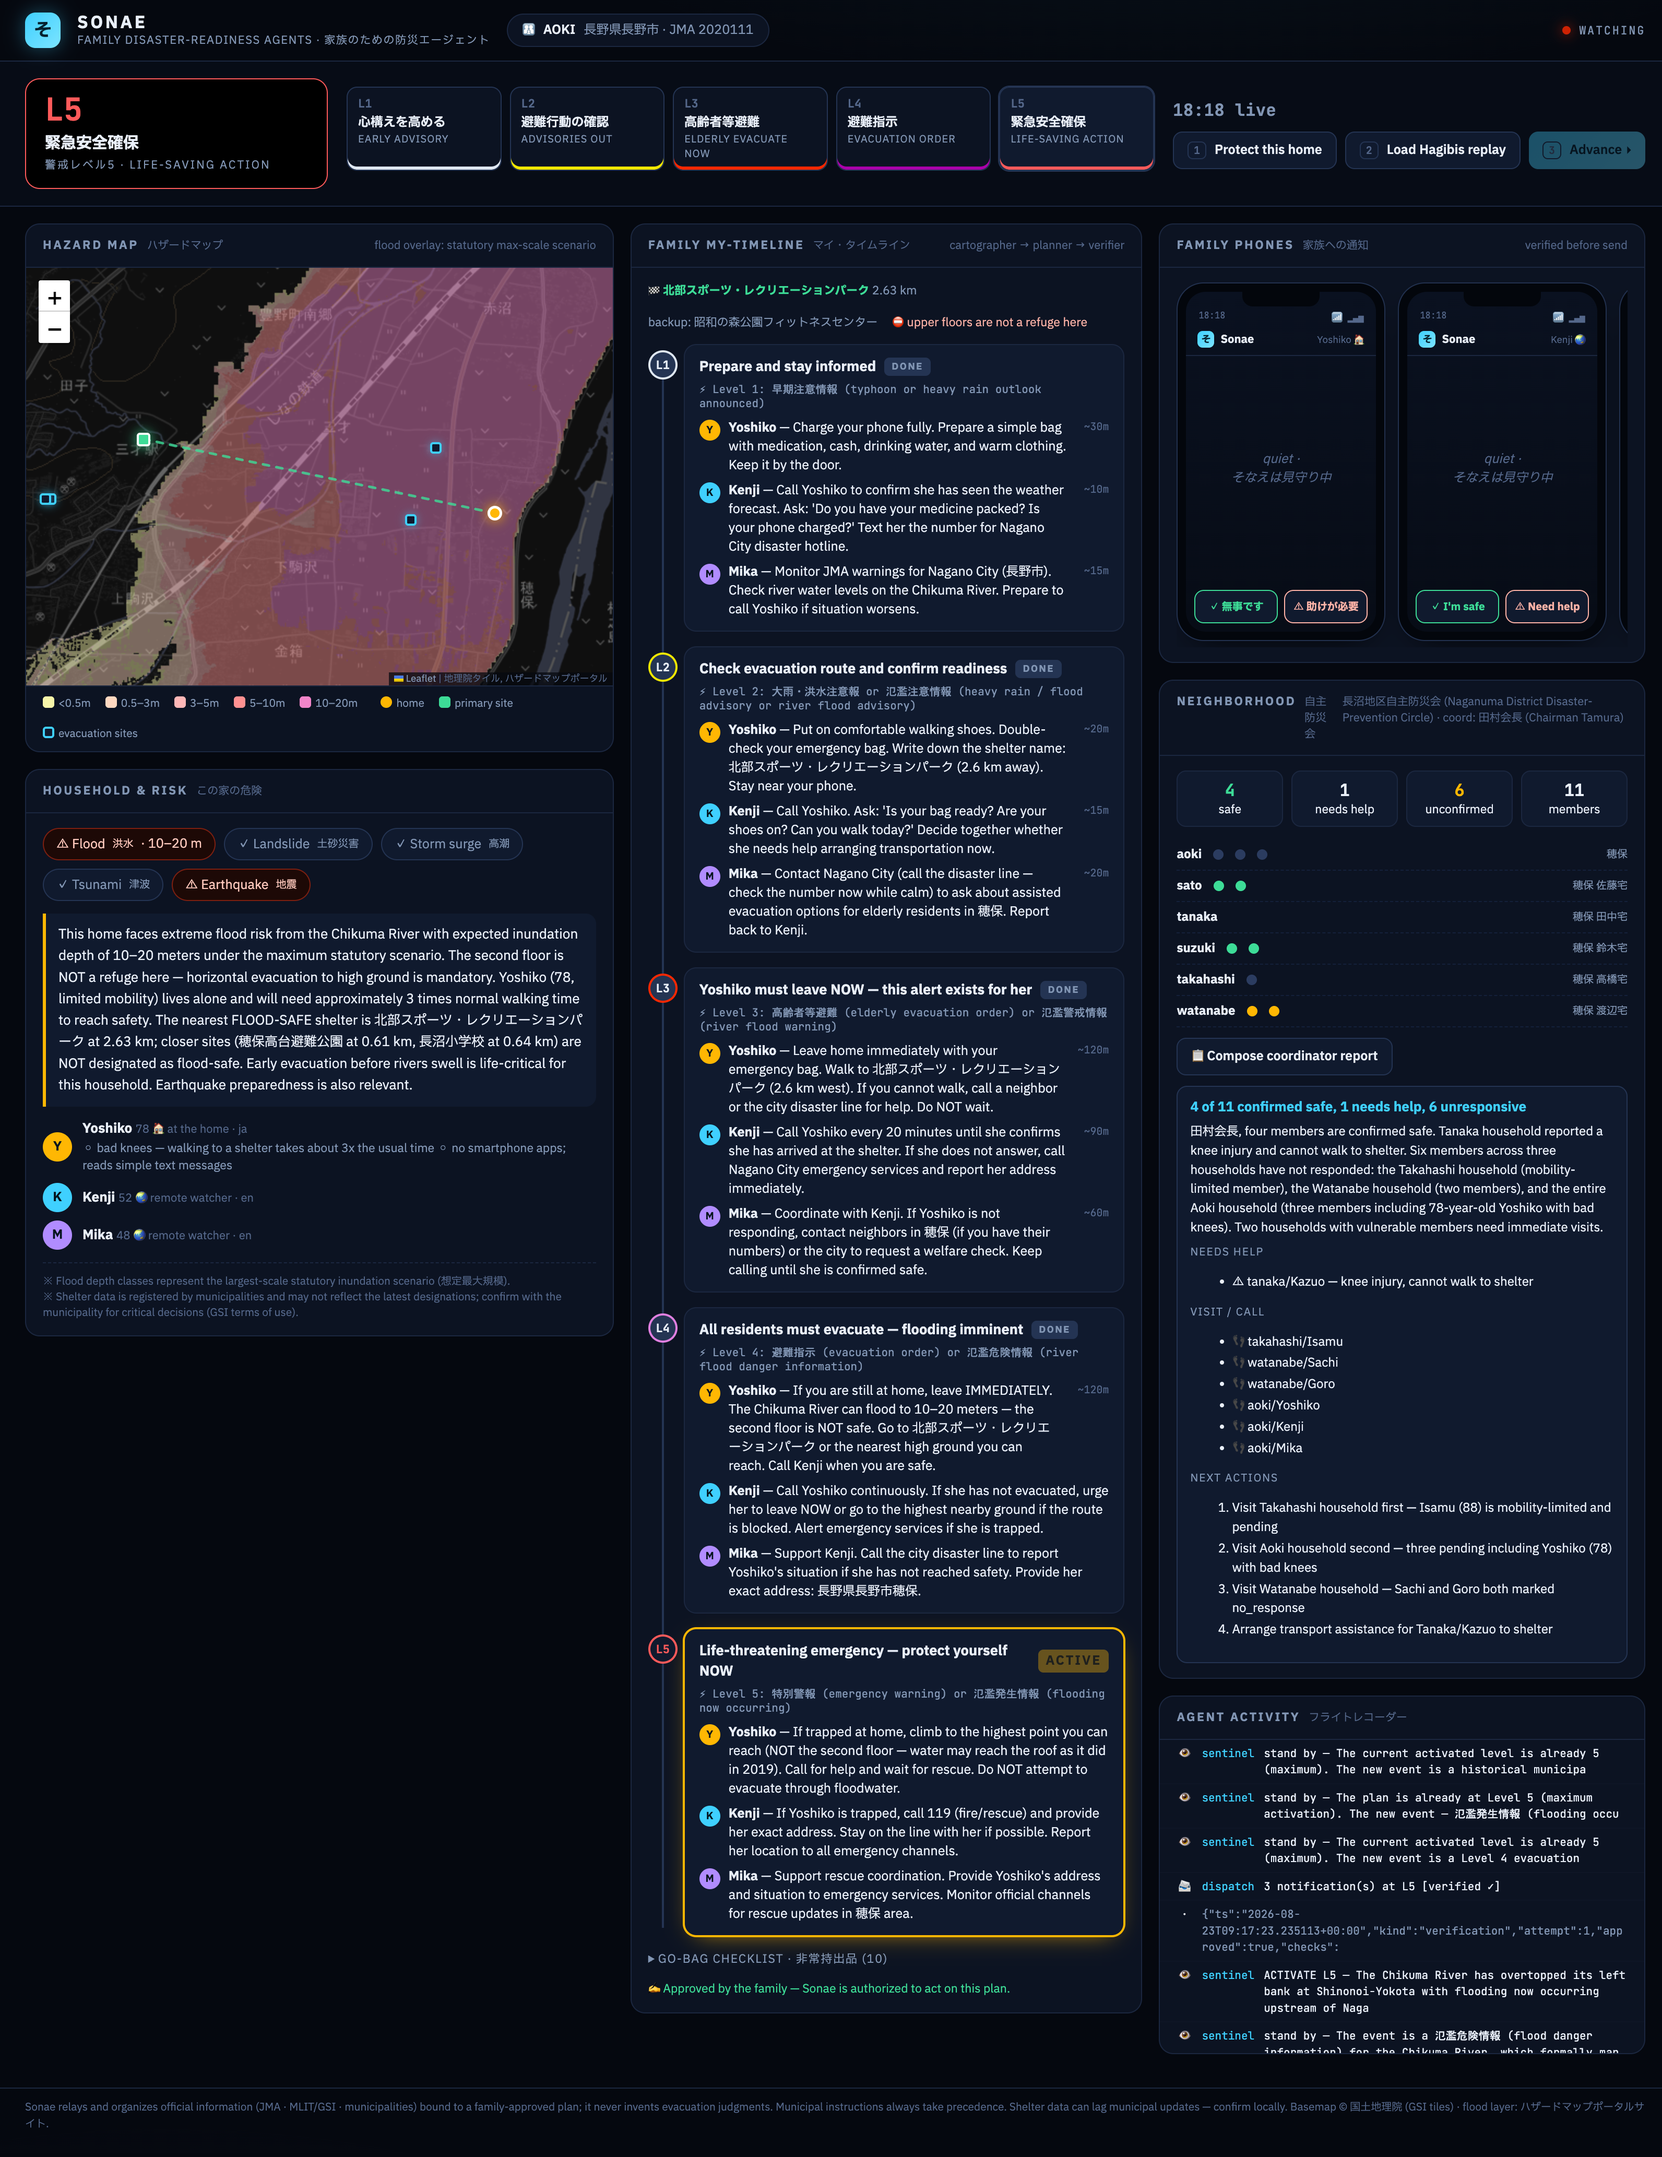
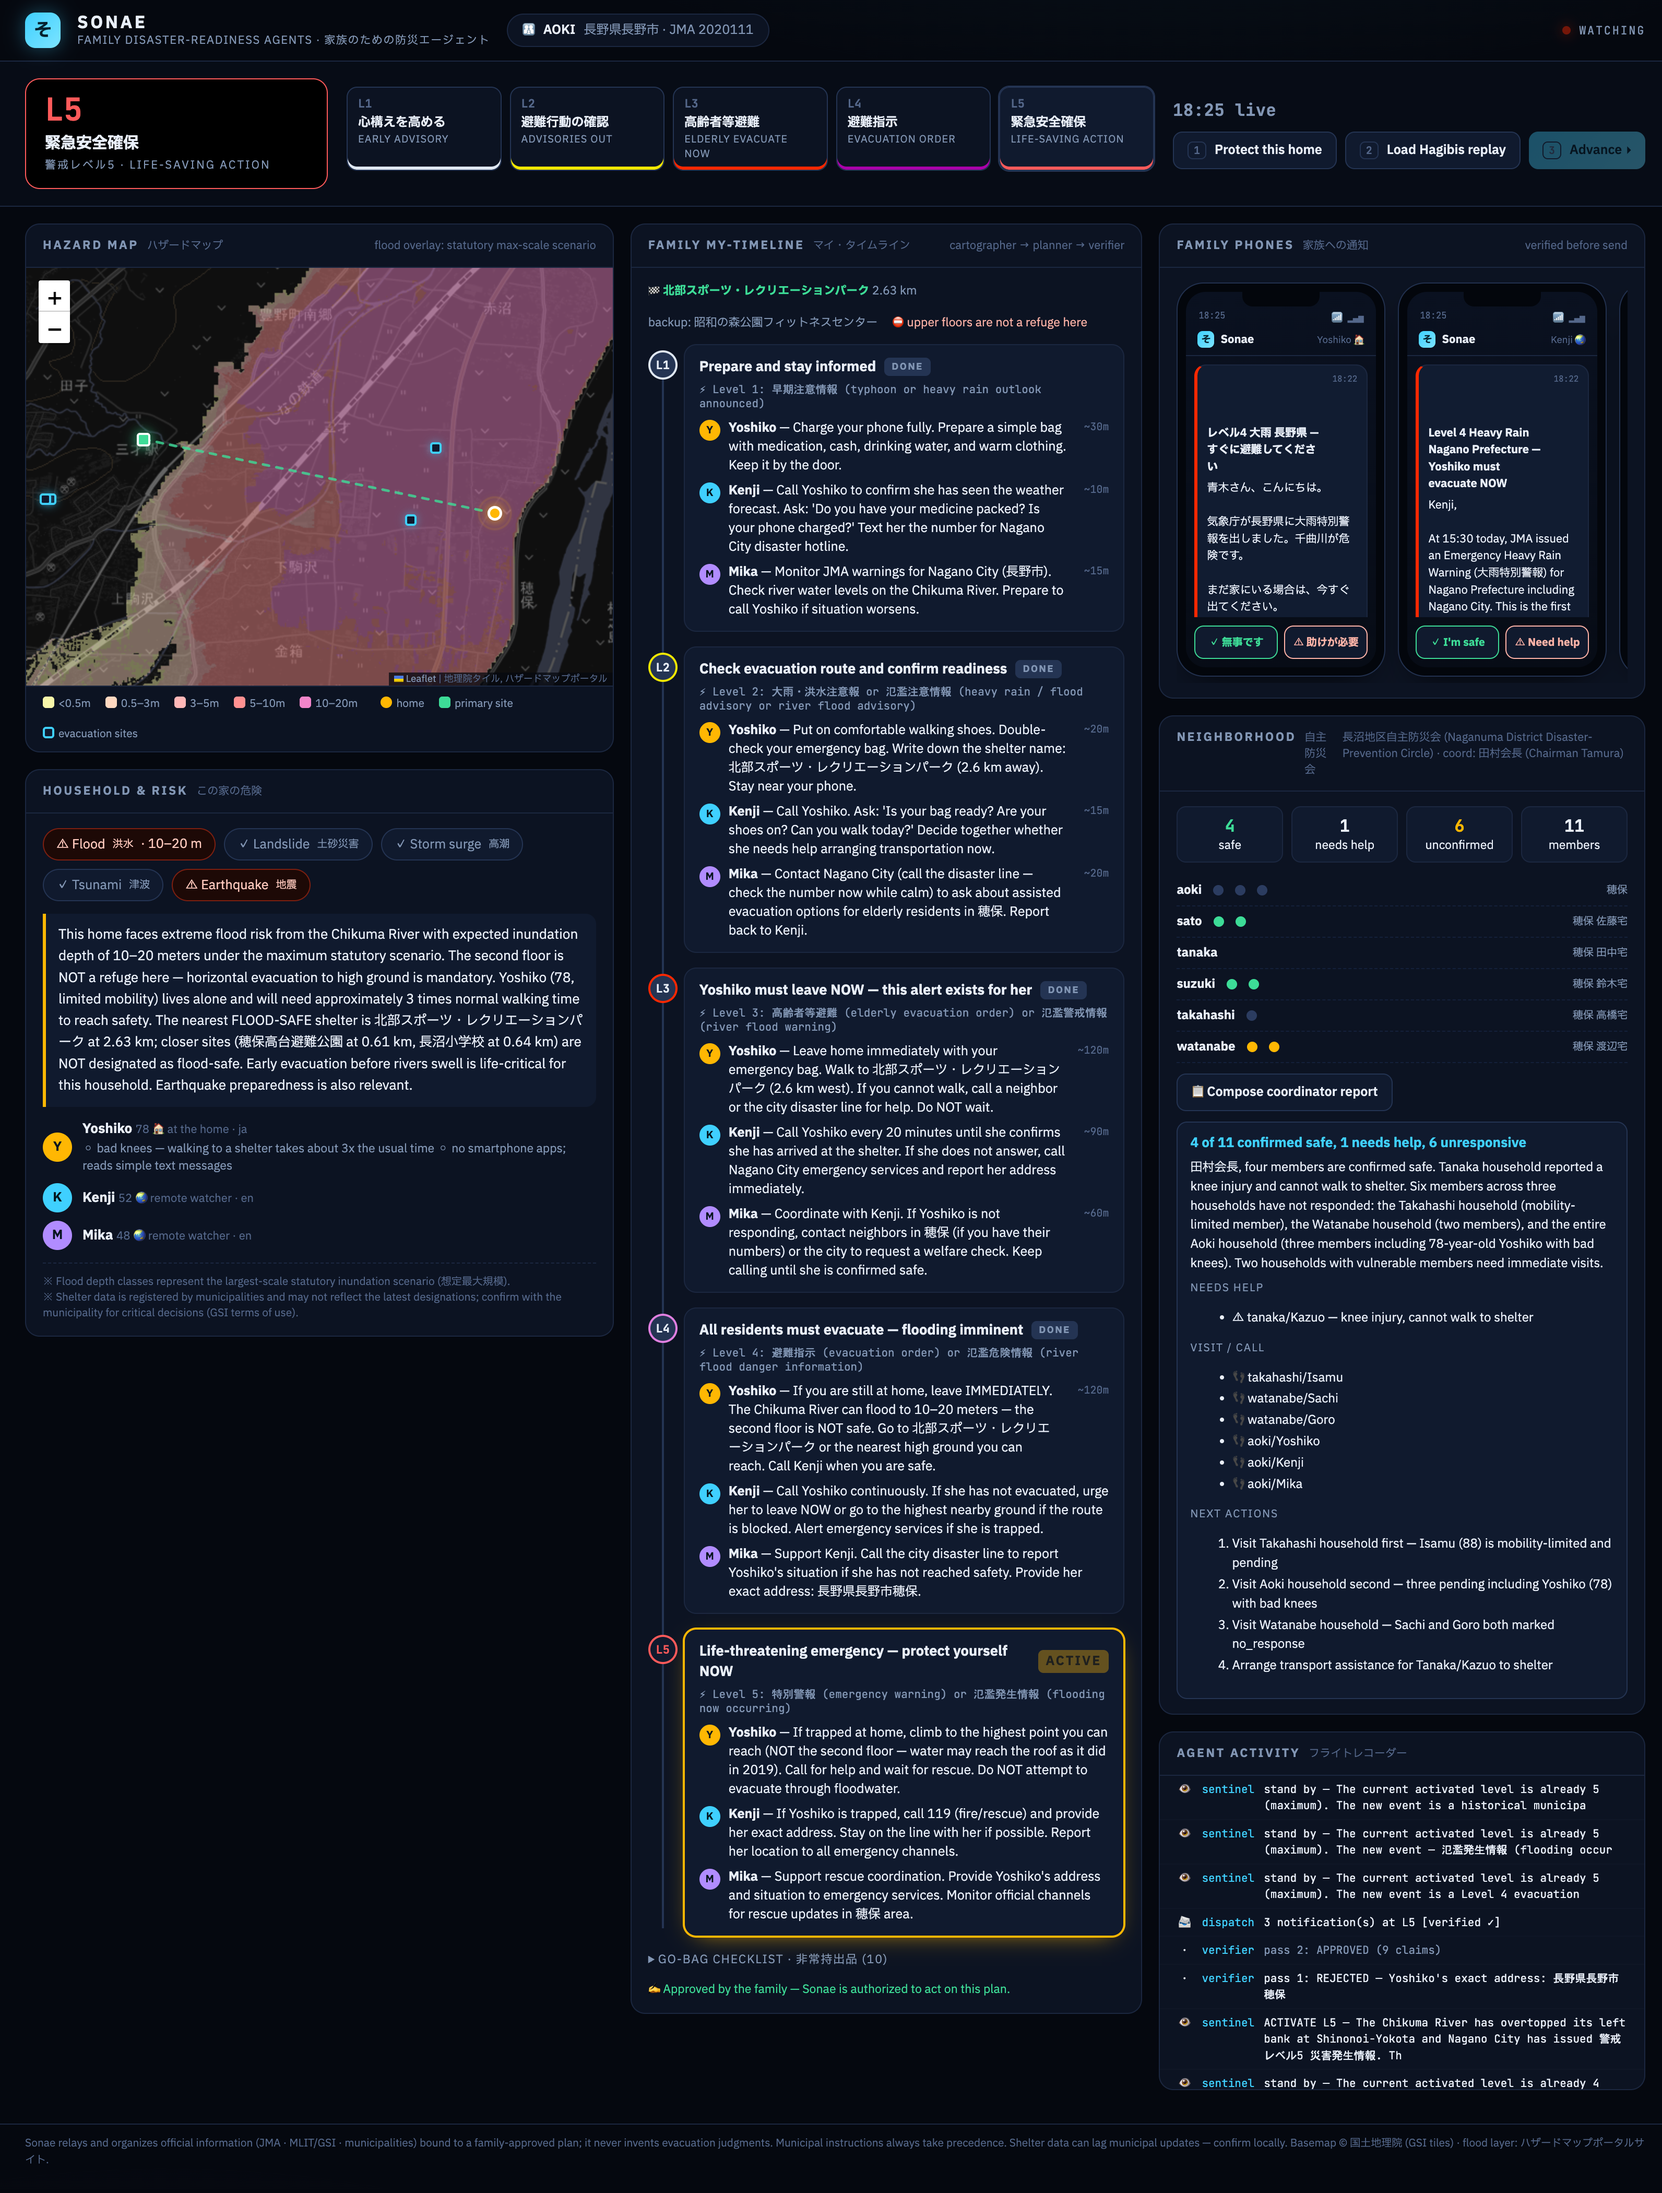
Definitive replay screenshots: real agent output end to end
Claude-Session: https://claude.ai/code/session_012EETc1sVcuUdF593pMuVPh

diff --git a/README.md b/README.md
@@ -10,10 +10,11 @@ Built for the **AWS Agents for Humans Hackathon** (Good Neighbor track) with the
 
 **Demo video:** _(link)_ · **Live demo:** _(link)_
 
-![Sonae dashboard during the Typhoon Hagibis replay — Level 3 active, grandmother evacuating](docs/screenshots/dashboard-l3.png)
-*The dashboard mid-replay: the home (amber) sits in the Chikuma River's 10–20 m statutory inundation
-zone; the plan's Level 3 step is active; each family member's phone has received their verified,
-cited instructions — Japanese for grandmother, English for her son in Tokyo.*
+![Sonae dashboard during the Typhoon Hagibis replay](docs/screenshots/dashboard-replay.png)
+*Mid-replay, all content agent-generated: the home (amber) sits in the Chikuma River's 10–20 m
+statutory inundation zone; the plan's steps light up as official signals fire; each family member's
+phone receives their verified, cited instructions — Japanese for grandmother, English for her son in
+Tokyo — with safety check-in buttons, and the neighborhood association board on the right.*
 
 ---
 
